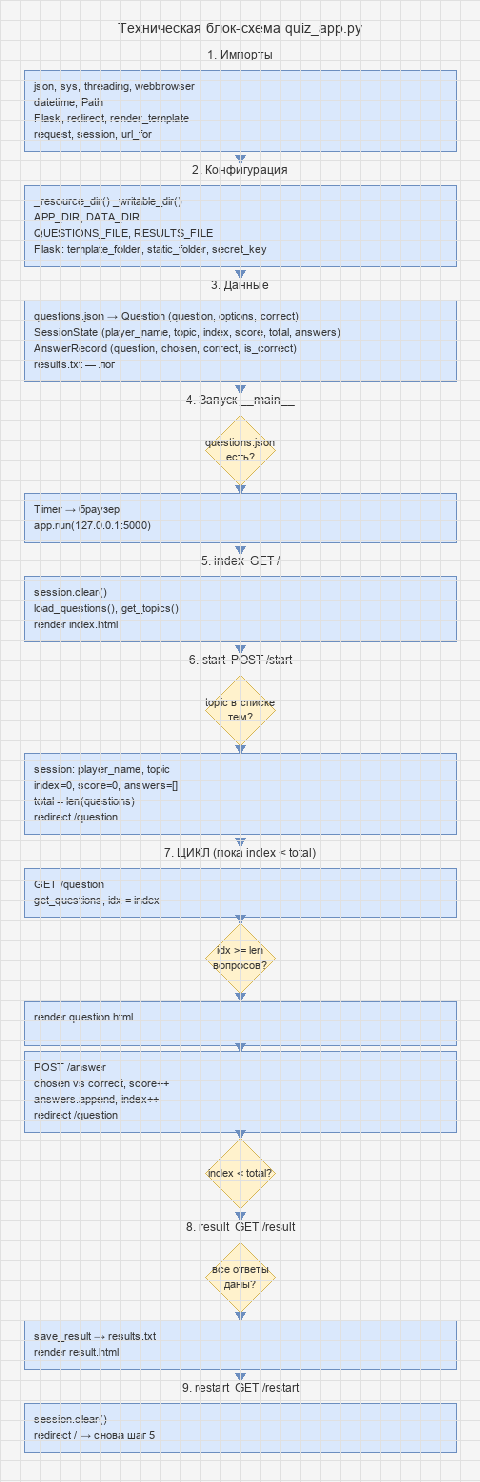
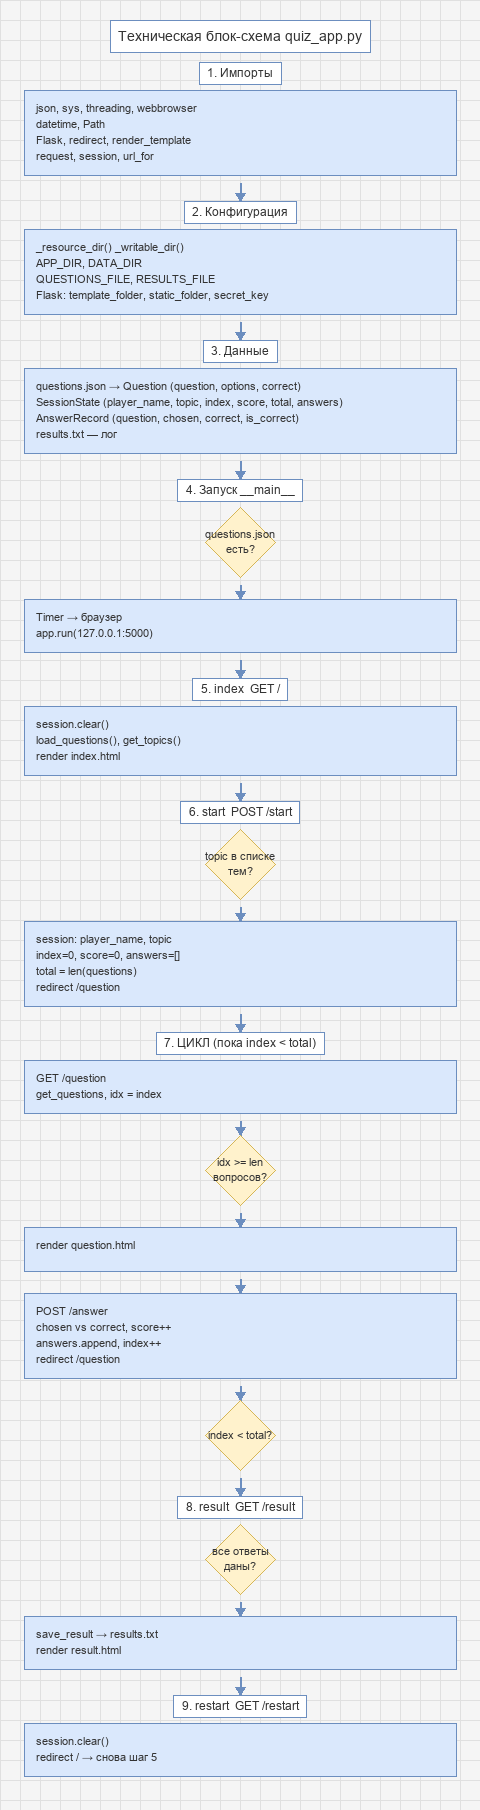
Исправить technical.png: сетка под текстом, больше отступы у стрелок.

Changed region(s): [[0.0312, 0.0, 0.9688, 0.9933]]

diff --git a/docs/draw_technical_png.py b/docs/draw_technical_png.py
@@ -53,6 +53,7 @@ def text_block_height(lines, font, line_gap=3):
 
 
 def draw_grid(img):
+    """Сетка только на фоне, до фигур и текста."""
     draw = ImageDraw.Draw(img)
     for x in range(0, W, 20):
         draw.line([(x, 0), (x, img.height)], fill=GRID, width=1)
@@ -67,20 +68,23 @@ class Chart:
         self.title_font = load_font(14)
         self.y = 20
         self.img = Image.new("RGB", (W, 4000), BG)
+        draw_grid(self.img)
         self.draw = ImageDraw.Draw(self.img)
         self.cx = W // 2
+        self.gap_arrow = 18
 
-    def arrow(self, gap=12):
+    def arrow(self, gap=None):
+        gap = self.gap_arrow if gap is None else gap
         x = self.cx
-        y1 = self.y
-        self.y += gap
+        y1 = self.y + 4
+        self.y = y1 + gap
         y2 = self.y
-        self.draw.line([(x, y1), (x, y2)], fill=ARROW, width=1)
+        self.draw.line([(x, y1), (x, y2)], fill=ARROW, width=2)
         self.draw.polygon([(x, y2), (x - 5, y2 - 8), (x + 5, y2 - 8)], fill=ARROW)
 
     def box(self, text: str, min_h: int = 44):
         font = self.font
-        pad = 10
+        pad = 12
         lines = wrap(self.draw, text, font, BOX_W - 2 * pad)
         th = text_block_height(lines, font)
         h = max(min_h, th + 2 * pad)
@@ -93,7 +97,7 @@ class Chart:
         for line in lines:
             self.draw.text((x1 + pad, ty), line, fill=TEXT, font=font)
             ty += font.getmetrics()[0] + font.getmetrics()[1] + 3
-        self.y = y2
+        self.y = y2 + 4
         return y2
 
     def diamond(self, text: str):
@@ -110,17 +114,24 @@ class Chart:
             lw = self.draw.textlength(line, font=font)
             self.draw.text((cx - lw / 2, ty), line, fill=TEXT, font=font)
             ty += font.getmetrics()[0] + font.getmetrics()[1] + 2
-        self.y = cy + size // 2
+        self.y = cy + size // 2 + 4
 
     def label(self, text: str):
         font = self.font_b
-        lw = self.draw.textlength(text, font=font)
-        self.draw.text(((W - lw) / 2, self.y), text, fill=TEXT, font=font)
-        self.y += font.getmetrics()[0] + font.getmetrics()[1] + 8
+        pad_x, pad_y = 8, 4
+        lines = [text]
+        th = text_block_height(lines, font)
+        lw = max(self.draw.textlength(text, font=font) for text in lines)
+        x1 = (W - lw) / 2 - pad_x
+        y1 = self.y
+        x2 = (W + lw) / 2 + pad_x
+        y2 = y1 + th + 2 * pad_y
+        self.draw.rectangle([x1, y1, x2, y2], fill="#FFFFFF", outline=BOX_BORDER, width=1)
+        self.draw.text(((W - lw) / 2, y1 + pad_y), text, fill=TEXT, font=font)
+        self.y = y2 + 6
 
     def save(self):
         crop = self.img.crop((0, 0, W, self.y + 30))
-        draw_grid(crop)
         crop.save(OUT, "PNG")
         print(f"OK: {OUT} ({OUT.stat().st_size} bytes, {crop.size[0]}x{crop.size[1]})")
 
@@ -129,8 +140,13 @@ def main():
     c = Chart()
     title = "Техническая блок-схема quiz_app.py"
     tw = c.draw.textlength(title, font=c.title_font)
-    c.draw.text(((W - tw) / 2, c.y), title, fill=TEXT, font=c.title_font)
-    c.y += 28
+    th = c.title_font.getmetrics()[0] + c.title_font.getmetrics()[1]
+    pad = 8
+    x1, y1 = (W - tw) / 2 - pad, c.y
+    x2, y2 = (W + tw) / 2 + pad, c.y + th + 2 * pad
+    c.draw.rectangle([x1, y1, x2, y2], fill="#FFFFFF", outline=BOX_BORDER, width=1)
+    c.draw.text(((W - tw) / 2, c.y + pad), title, fill=TEXT, font=c.title_font)
+    c.y = y2 + 10
 
     c.label("1. Импорты")
     c.box("json, sys, threading, webbrowser\ndatetime, Path\nFlask, redirect, render_template\nrequest, session, url_for")
@@ -146,7 +162,7 @@ def main():
 
     c.label("4. Запуск __main__")
     c.diamond("questions.json\nесть?")
-    c.arrow(8)
+    c.arrow(14)
     c.box("Timer → браузер\napp.run(127.0.0.1:5000)")
     c.arrow()
 
@@ -156,25 +172,25 @@ def main():
 
     c.label("6. start  POST /start")
     c.diamond("topic в списке\nтем?")
-    c.arrow(8)
+    c.arrow(14)
     c.box("session: player_name, topic\nindex=0, score=0, answers=[]\ntotal = len(questions)\nredirect /question")
     c.arrow()
 
     c.label("7. ЦИКЛ (пока index < total)")
     c.box("GET /question\nget_questions, idx = index")
-    c.arrow(6)
+    c.arrow(14)
     c.diamond("idx >= len\nвопросов?")
-    c.arrow(8)
+    c.arrow(14)
     c.box("render question.html")
-    c.arrow(6)
+    c.arrow(14)
     c.box("POST /answer\nchosen vs correct, score++\nanswers.append, index++\nredirect /question")
-    c.arrow(6)
+    c.arrow(14)
     c.diamond("index < total?")
     c.arrow()
 
     c.label("8. result  GET /result")
     c.diamond("все ответы\nданы?")
-    c.arrow(8)
+    c.arrow(14)
     c.box("save_result → results.txt\nrender result.html")
     c.arrow()
 
